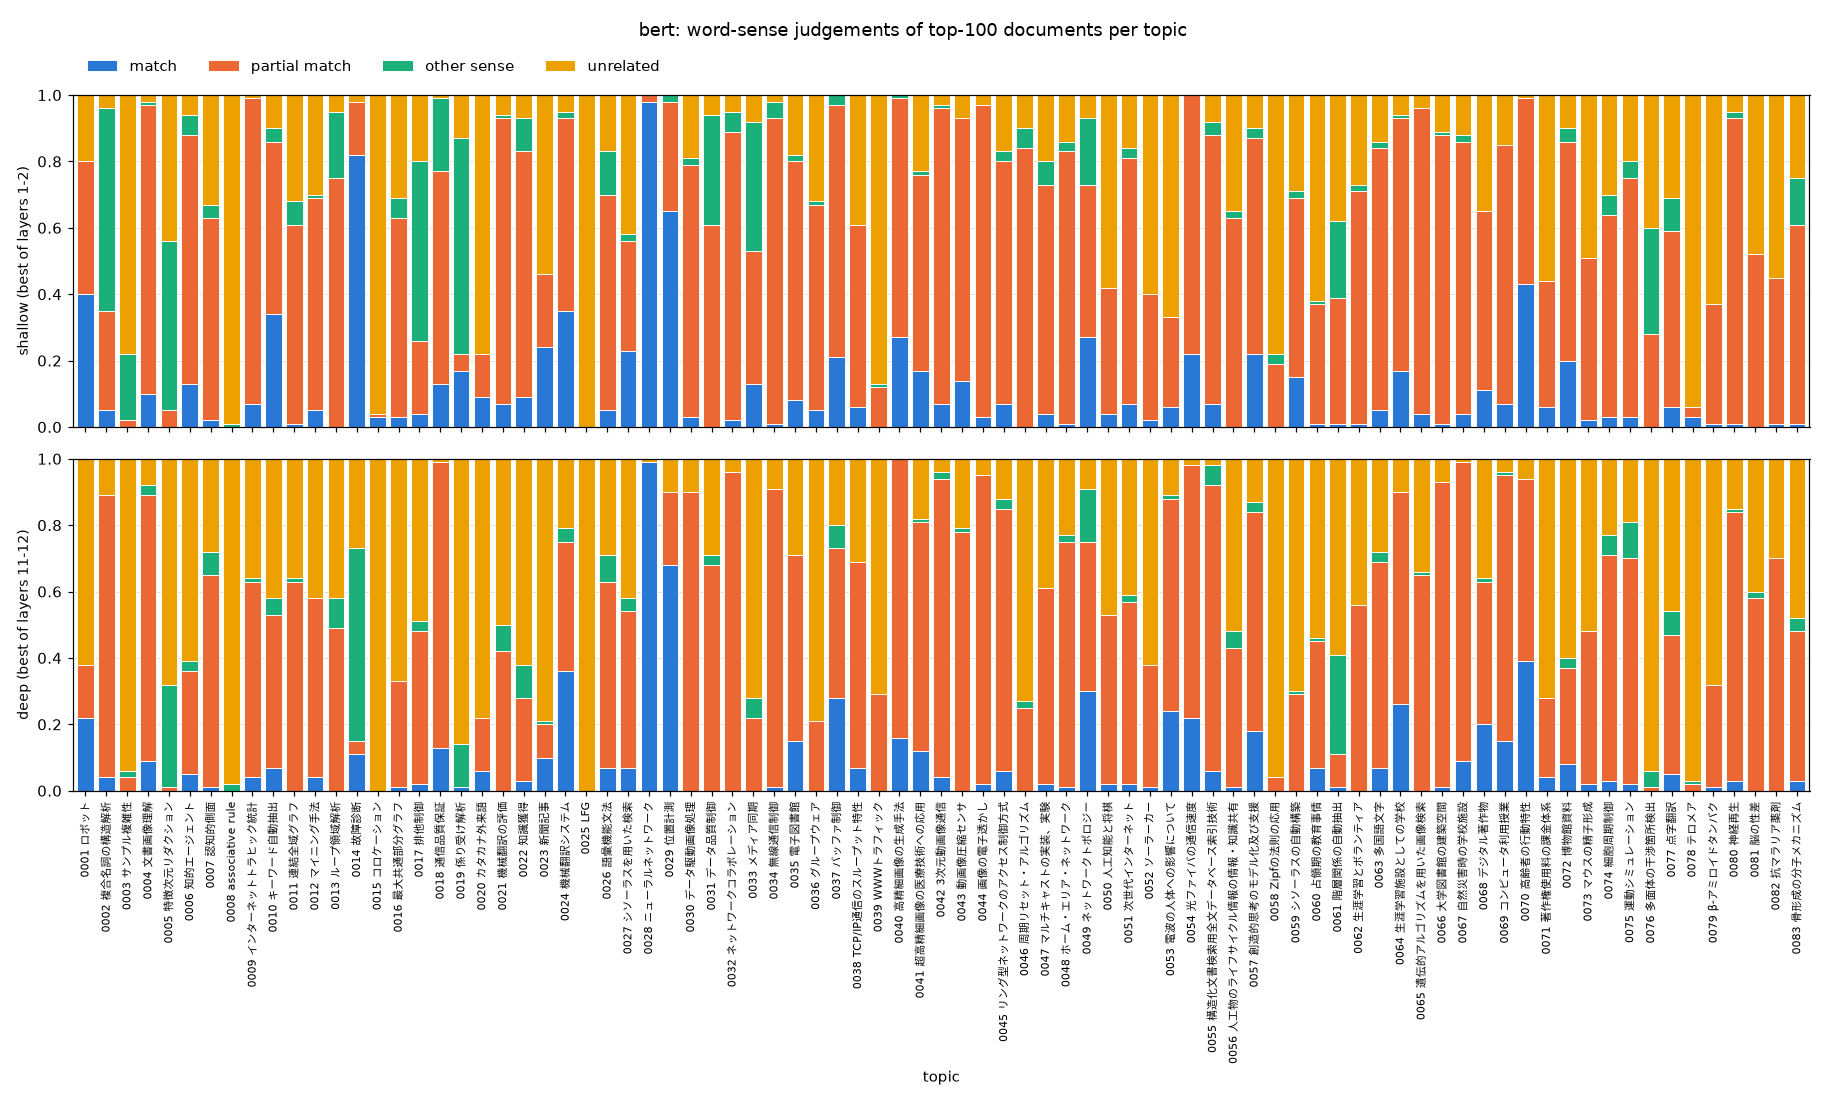
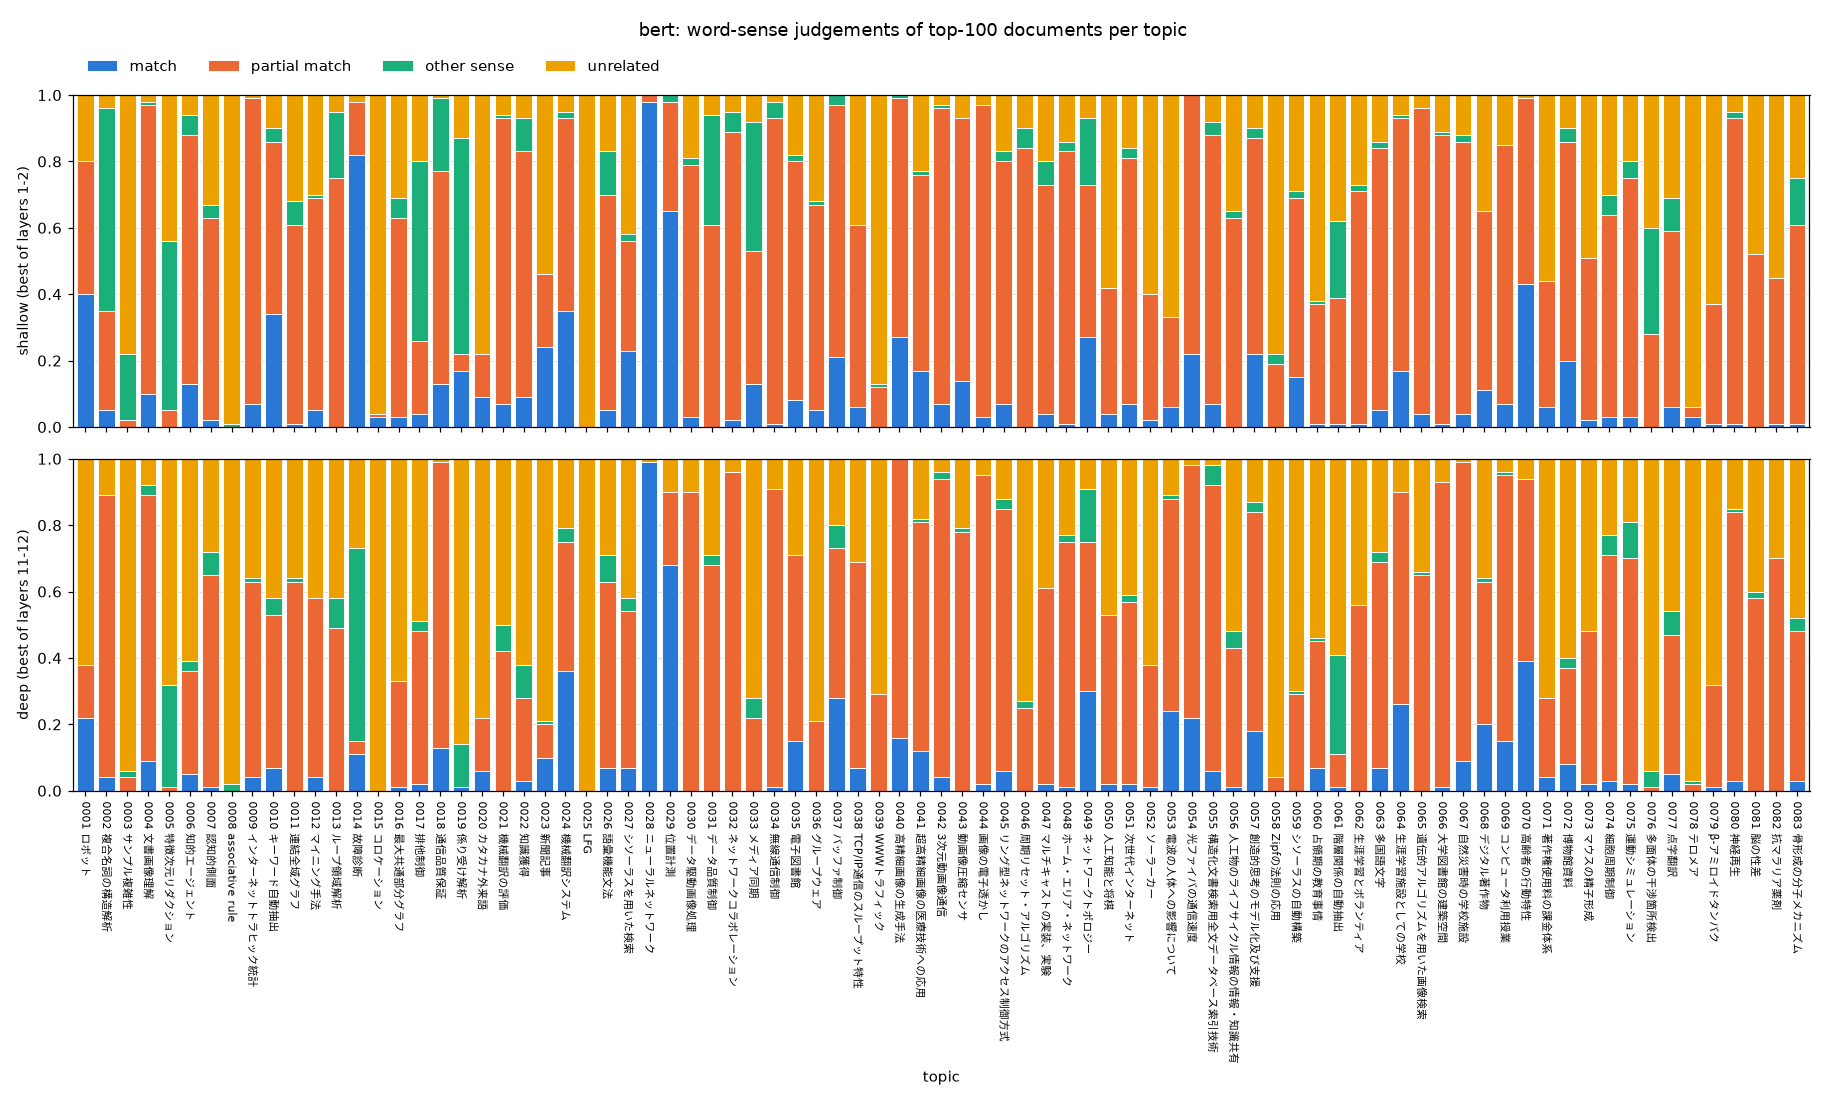
fix: トピックの目盛りを上から読む向きにし、軸のすぐ下に ID が来るようにする

Changed region(s): [[0.0312, 0.7109, 0.9989, 0.9582]]

diff --git a/sandbox/analysis/word_sense/figures.py b/sandbox/analysis/word_sense/figures.py
@@ -110,7 +110,8 @@ def save_by_topic(distribution: Distribution, *, model: str, path: Path) -> None
         f"{topic_id} {title}"
         for topic_id, title in zip(distribution.topic_ids, distribution.titles, strict=True)
     ]
-    axes[-1].set_xticks(positions, labels, rotation=90, fontsize=7, fontfamily=JAPANESE_FONTS)
+    # 上から下に読む向きにして、軸のすぐ下に ID が来るようにする
+    axes[-1].set_xticks(positions, labels, rotation=-90, fontsize=7, fontfamily=JAPANESE_FONTS)
     axes[-1].set_xlabel("topic")
     axes[0].legend(loc="lower left", bbox_to_anchor=(0, 1.02), ncol=len(CATEGORIES), frameon=False)
     figure.suptitle(f"{model}: word-sense judgements of top-100 documents per topic")
